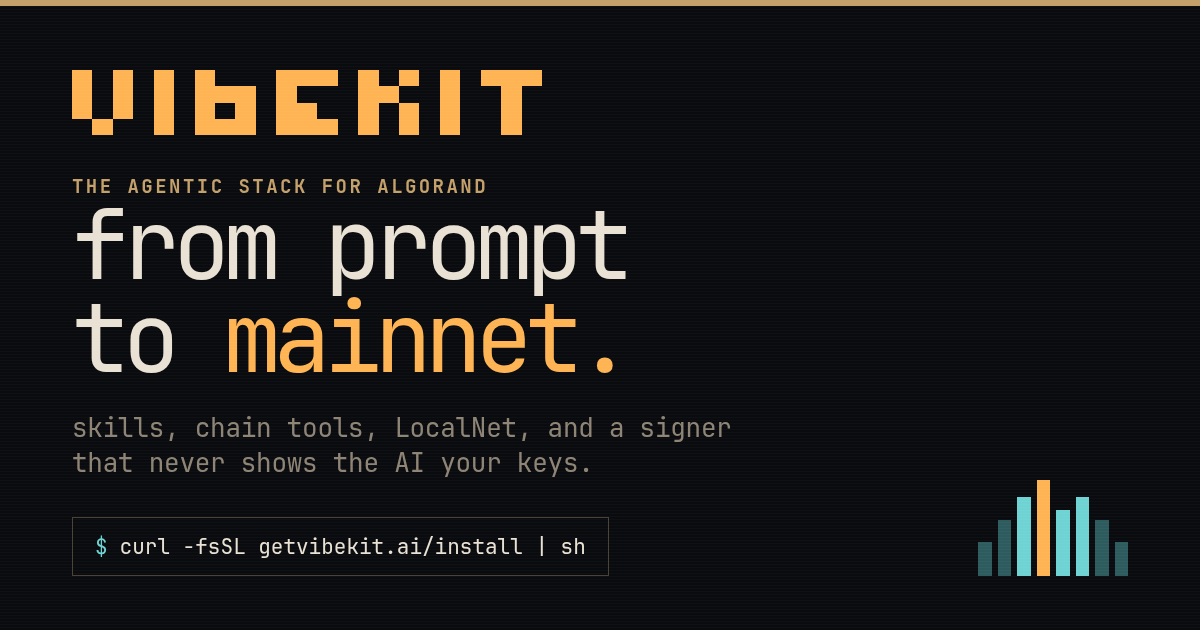
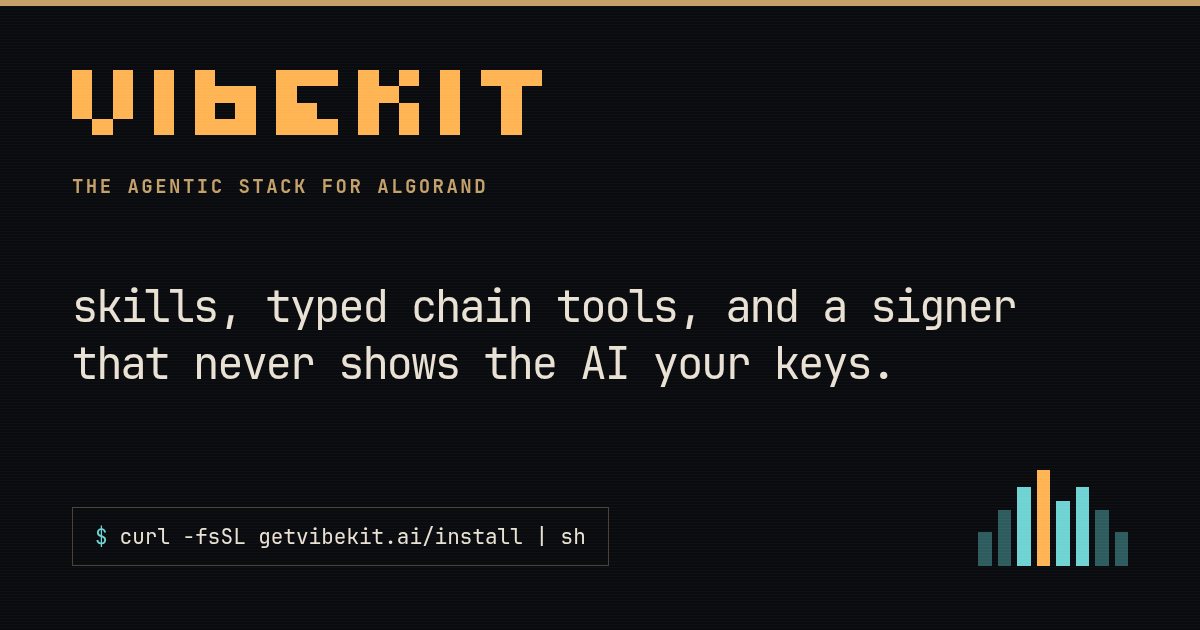
docs(website): alpha disclaimers, trim OG card, drop LocalNet from the landing page

diff --git a/apps/website/scripts/og-image.html b/apps/website/scripts/og-image.html
@@ -9,7 +9,7 @@ body { background:#0a0b0e; color:#e9e1d4; height:630px; width:1200px;
 .eyebrow { color:#c4a06a; font-size:19px; font-weight:700; letter-spacing:.13em; }
 h1 { font-size:96px; font-weight:500; letter-spacing:-.075em; line-height:.96; }
 h1 em { color:#ffb454; font-style:normal; }
-.sub { color:#8e8476; font-size:26px; letter-spacing:-.01em; margin-top:26px; }
+.sub { color:#e9e1d4; font-size:44px; font-weight:500; letter-spacing:-.05em; line-height:1.3; }
 .foot { align-items:flex-end; display:flex; justify-content:space-between; }
 .install { border:1px solid #4a4236; color:#e9e1d4; font-size:21px; padding:15px 22px; }
 .install span { color:#6fd3d3; margin-right:12px; }
@@ -17,10 +17,7 @@ h1 em { color:#ffb454; font-style:normal; }
 .bars i { display:block; flex:1; }
 </style></head><body><div class="card">
   <div><svg viewBox="0 0 115 16" width="470" shape-rendering="crispEdges"><rect x="0" y="0" width="5" height="8" fill="#ffb454"/><rect x="10" y="0" width="5" height="8" fill="#ffb454"/><rect x="20" y="0" width="5" height="8" fill="#ffb454"/><rect x="30" y="0" width="5" height="8" fill="#ffb454"/><rect x="35" y="4" width="5" height="4" fill="#ffb454"/><rect x="40" y="4" width="5" height="4" fill="#ffb454"/><rect x="50" y="0" width="5" height="8" fill="#ffb454"/><rect x="55" y="0" width="5" height="4" fill="#ffb454"/><rect x="60" y="0" width="5" height="4" fill="#ffb454"/><rect x="70" y="0" width="5" height="8" fill="#ffb454"/><rect x="75" y="4" width="5" height="4" fill="#ffb454"/><rect x="80" y="0" width="5" height="4" fill="#ffb454"/><rect x="90" y="0" width="5" height="8" fill="#ffb454"/><rect x="100" y="0" width="5" height="4" fill="#ffb454"/><rect x="105" y="0" width="5" height="8" fill="#ffb454"/><rect x="110" y="0" width="5" height="4" fill="#ffb454"/><rect x="0" y="8" width="5" height="4" fill="#ffb454"/><rect x="5" y="12" width="5" height="4" fill="#ffb454"/><rect x="10" y="8" width="5" height="4" fill="#ffb454"/><rect x="20" y="8" width="5" height="8" fill="#ffb454"/><rect x="30" y="8" width="5" height="8" fill="#ffb454"/><rect x="35" y="12" width="5" height="4" fill="#ffb454"/><rect x="40" y="8" width="5" height="8" fill="#ffb454"/><rect x="50" y="8" width="5" height="8" fill="#ffb454"/><rect x="55" y="8" width="5" height="8" fill="#ffb454"/><rect x="60" y="12" width="5" height="4" fill="#ffb454"/><rect x="70" y="8" width="5" height="8" fill="#ffb454"/><rect x="80" y="8" width="5" height="8" fill="#ffb454"/><rect x="90" y="8" width="5" height="8" fill="#ffb454"/><rect x="105" y="8" width="5" height="8" fill="#ffb454"/></svg><p class="eyebrow" style="margin-top:34px">THE AGENTIC STACK FOR ALGORAND</p></div>
-  <div>
-    <h1>from prompt<br>to <em>mainnet.</em></h1>
-    <p class="sub">skills, chain tools, LocalNet, and a signer<br>that never shows the AI your keys.</p>
-  </div>
+  <p class="sub">skills, typed chain tools, and a signer<br>that never shows the AI your keys.</p>
   <div class="foot">
     <div class="install"><span>$</span>curl -fsSL getvibekit.ai/install | sh</div>
     <div class="bars"><i style="height:35%;background:#2e5c5e"></i><i style="height:58%;background:#2e5c5e"></i><i style="height:82%;background:#6fd3d3"></i><i style="height:100%;background:#ffb454"></i><i style="height:68%;background:#6fd3d3"></i><i style="height:82%;background:#6fd3d3"></i><i style="height:58%;background:#2e5c5e"></i><i style="height:35%;background:#2e5c5e"></i></div>

diff --git a/apps/website/src/content/docs/docs/index.md b/apps/website/src/content/docs/docs/index.md
@@ -2,8 +2,19 @@
 title: vibekit // field manual
 description: Get an agent onto Algorand without handing it the keys.
 draft: false
+banner:
+  content: '<strong>VibeKit is in alpha.</strong> The packages are unstable and not ready to build on — APIs will break without notice.'
 ---
 
+:::danger[Alpha — not ready to build on]
+VibeKit is an alpha release. The `@initlabs/*` packages are published under the
+`alpha` dist-tag, carry **no API stability guarantee**, and will change in
+breaking ways without a major version bump. The Explorer presentation protocol
+is not frozen. macOS and Windows are not yet verified.
+
+Use this to try VibeKit and tell us what breaks. Do not build something you
+need to keep working.
+:::
 
 VibeKit gives your coding agent the parts it usually has to guess at: current
 Algorand guidance, typed chain tools, LocalNet, and a signer that keeps seeds

diff --git a/apps/website/src/content/docs/docs/guides/create-a-vibekit-plugin.md b/apps/website/src/content/docs/docs/guides/create-a-vibekit-plugin.md
@@ -2,8 +2,15 @@
 title: Create a VibeKit plugin
 description: Package a new capability as typed tools that any VibeKit host can use.
 draft: false
+banner:
+  content: '<strong>VibeKit is in alpha.</strong> The packages are unstable and not ready to build on — APIs will break without notice.'
 ---
 
+:::danger[Alpha — this API will change]
+The package surface described here is **not stable**. It ships under the
+`alpha` dist-tag and breaking changes will land without a major version bump.
+Treat this guide as a preview of the shape, not a contract.
+:::
 
 A VibeKit plugin is a workspace package that returns a `ToolPlugin`: a name, a tool
 array, and optionally a service or trusted Explorer view schemas. The host puts

diff --git a/apps/website/src/content/docs/docs/guides/create-a-custom-mcp.md b/apps/website/src/content/docs/docs/guides/create-a-custom-mcp.md
@@ -2,8 +2,15 @@
 title: Create a custom MCP
 description: Serve exactly the VibeKit tools and plugins your agent needs.
 draft: false
+banner:
+  content: '<strong>VibeKit is in alpha.</strong> The packages are unstable and not ready to build on — APIs will break without notice.'
 ---
 
+:::danger[Alpha — this API will change]
+The package surface described here is **not stable**. It ships under the
+`alpha` dist-tag and breaking changes will land without a major version bump.
+Treat this guide as a preview of the shape, not a contract.
+:::
 
 A VibeKit MCP deployment is configuration: select tools, optional plugins,
 networks, and a signing mode, then pass that deployment to a transport adapter.

diff --git a/apps/website/src/content/docs/docs/tutorials/explore-with-vibekit.md b/apps/website/src/content/docs/docs/tutorials/explore-with-vibekit.md
@@ -2,6 +2,8 @@
 title: Explore with VibeKit
 description: Use the terminal Explorer to inspect Algorand and review writes.
 draft: false
+banner:
+  content: '<strong>VibeKit is in alpha.</strong> The packages are unstable and not ready to build on — APIs will break without notice.'
 ---
 
 The VibeKit Explorer is a full-screen terminal app for Algorand. It is useful

diff --git a/apps/website/src/content/docs/docs/tutorials/first-project.md b/apps/website/src/content/docs/docs/tutorials/first-project.md
@@ -2,6 +2,8 @@
 title: Your first project
 description: Scaffold an Algorand project and set it up for an AI coding agent.
 draft: false
+banner:
+  content: '<strong>VibeKit is in alpha.</strong> The packages are unstable and not ready to build on — APIs will break without notice.'
 ---
 
 This tutorial creates a contracts project, configures an agent, and starts a

diff --git a/apps/website/src/content/docs/docs/guides/add-to-an-existing-project.md b/apps/website/src/content/docs/docs/guides/add-to-an-existing-project.md
@@ -2,6 +2,8 @@
 title: Add VibeKit to an existing project
 description: Configure skills and MCP tools without replacing the project you have.
 draft: false
+banner:
+  content: '<strong>VibeKit is in alpha.</strong> The packages are unstable and not ready to build on — APIs will break without notice.'
 ---
 
 

diff --git a/apps/website/src/content/docs/docs/explanation/how-vibekit-works.md b/apps/website/src/content/docs/docs/explanation/how-vibekit-works.md
@@ -2,6 +2,8 @@
 title: How VibeKit works
 description: The small mental model behind VibeKit’s CLI, MCP, plugins, and Explorer.
 draft: false
+banner:
+  content: '<strong>VibeKit is in alpha.</strong> The packages are unstable and not ready to build on — APIs will break without notice.'
 ---
 
 

diff --git a/apps/website/src/content/docs/docs/reference/configuration.md b/apps/website/src/content/docs/docs/reference/configuration.md
@@ -2,6 +2,8 @@
 title: Configuration
 description: The few settings that matter when using VibeKit.
 draft: false
+banner:
+  content: '<strong>VibeKit is in alpha.</strong> The packages are unstable and not ready to build on — APIs will break without notice.'
 ---
 
 

diff --git a/apps/website/src/content/docs/docs/reference/installation.md b/apps/website/src/content/docs/docs/reference/installation.md
@@ -2,6 +2,8 @@
 title: Installation
 description: Run VibeKit from the current source checkout.
 draft: false
+banner:
+  content: '<strong>VibeKit is in alpha.</strong> The packages are unstable and not ready to build on — APIs will break without notice.'
 ---
 
 
